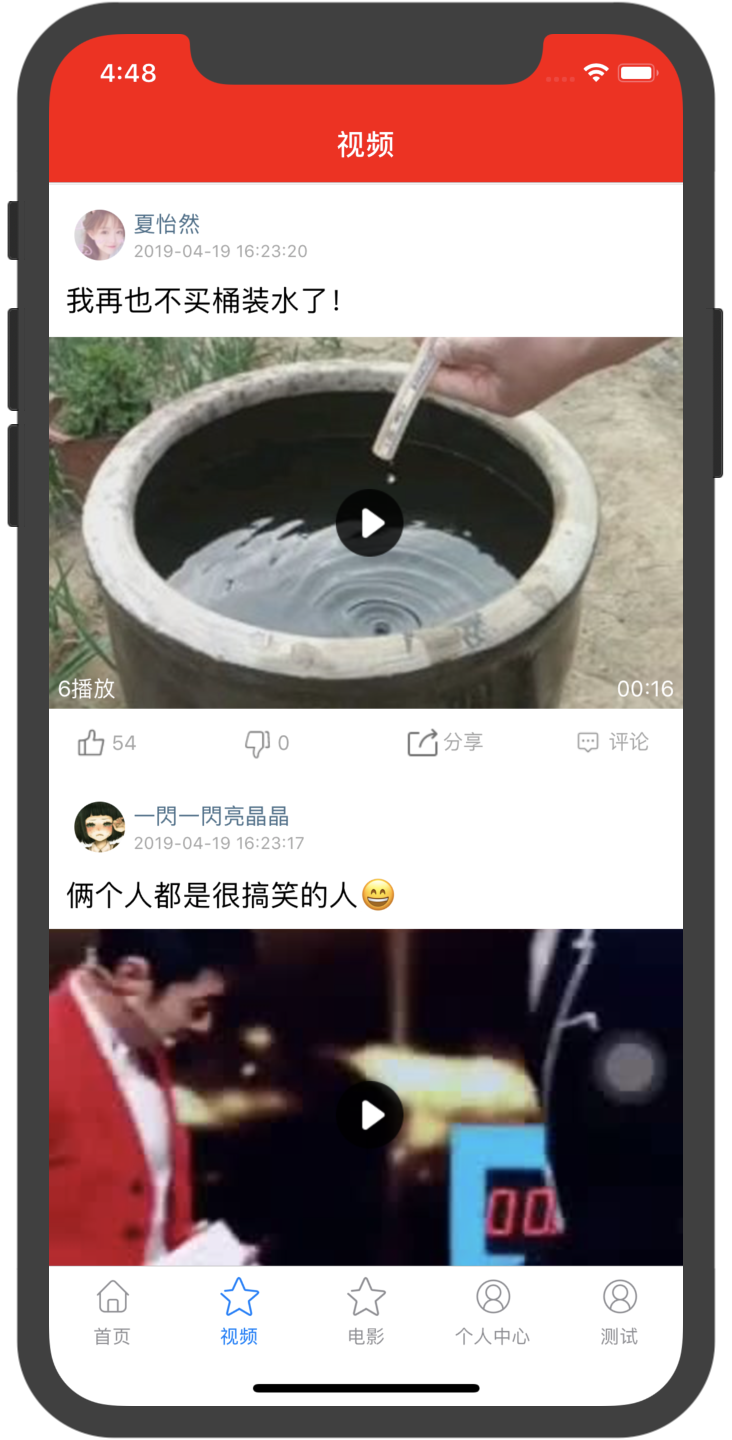
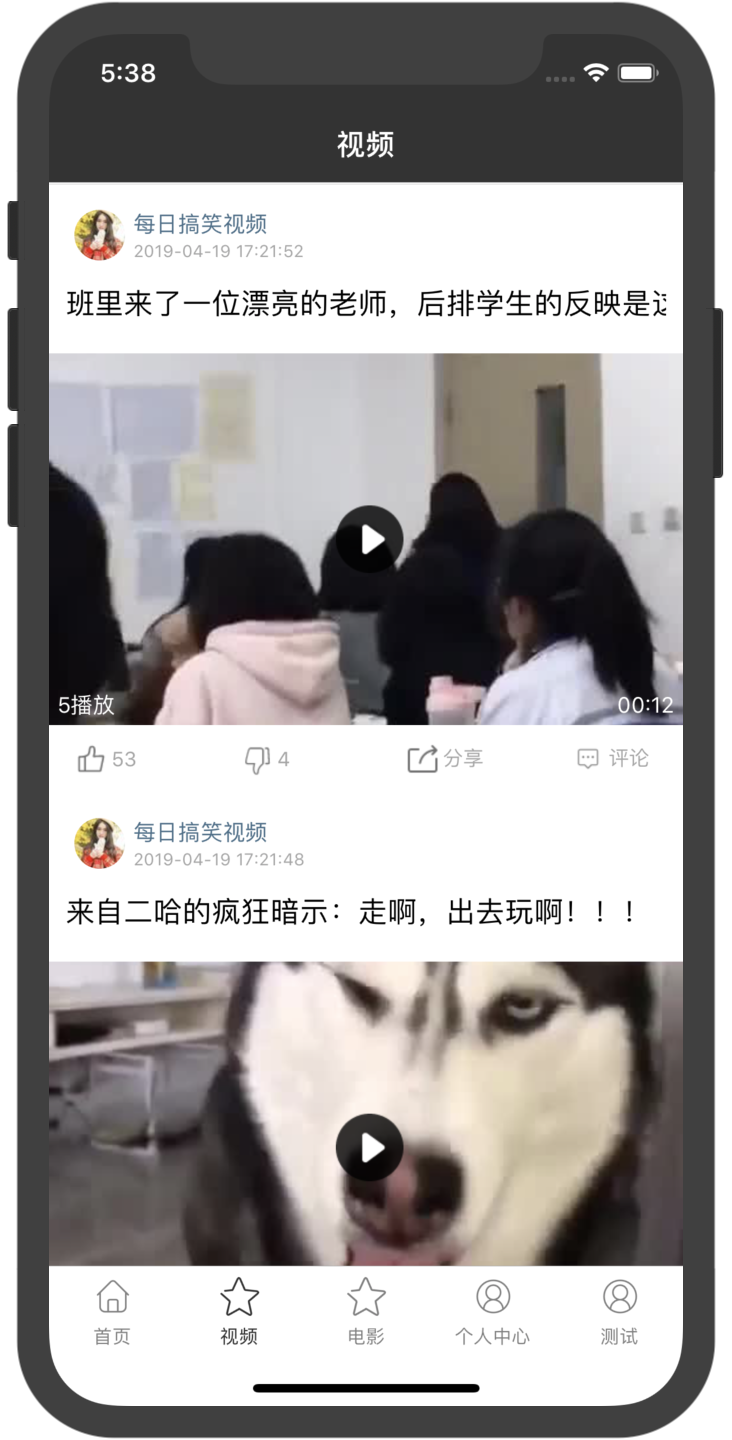
ThemeColor
ThemeColor

diff --git a/app/components/IndexRoute.js b/app/components/IndexRoute.js
@@ -23,7 +23,7 @@ export default routeIndex = {
             title:'首页详情',
             headerTintColor:'white',
             headerStyle: {
-                backgroundColor: 'red',
+                backgroundColor: '#333333',
             },
             headerRight:
                 <TouchableOpacity onPress={()=>{_clickHomeDetail()}}>
@@ -40,7 +40,7 @@ export default routeIndex = {
             title:'视频详情',
             headerTintColor:'white',
             headerStyle: {
-                backgroundColor: 'red',
+                backgroundColor: '#333333',
             },
         })
     },
@@ -51,7 +51,7 @@ export default routeIndex = {
             title:'电影详情',
             headerTintColor:'white',
             headerStyle: {
-                backgroundColor: 'red',
+                backgroundColor: '#333333',
             },
         })
     },
@@ -61,7 +61,7 @@ export default routeIndex = {
             title:'测试详情',
             headerTintColor:'white',
             headerStyle: {
-                backgroundColor: 'red',
+                backgroundColor: '#333333',
             },
 
         })
@@ -72,7 +72,7 @@ export default routeIndex = {
             title:'扫描二维码',
             headerTintColor:'white',
             headerStyle: {
-                backgroundColor: 'red',
+                backgroundColor: '#333333',
             },
 
         })

diff --git a/app/TestControl/TestPage.js b/app/TestControl/TestPage.js
@@ -273,7 +273,7 @@ export default class TestPage extends Component {
           {
               <ScrollView style={{flex:1}}>
                    <StatusBar
-                     backgroundColor="blue"
+                     backgroundColor="#333333"
                      barStyle="light-content"
                    />
                    <View style={{height: 40,margin:10,marginBottom:0,flexDirection:'row',alignItems:'center'}}>
@@ -294,7 +294,7 @@ export default class TestPage extends Component {
                          contents.map((item,index)=>{
                            return(
                              <TouchableWithoutFeedback key={index} onPress={actions[index]}>
-                                 <View style={{marginTop:10,width:355,height:45,backgroundColor:'#436EEE',borderRadius:5,alignItems:'center',justifyContent:'center'}}>
+                                 <View style={{marginTop:10,width:355,height:45,backgroundColor:'grey',borderRadius:5,alignItems:'center',justifyContent:'center'}}>
                                      <Text style={{height: 20,textAlign:'center',fontSize:17,color:'white'}}>{item}</Text>
                                  </View>
                              </TouchableWithoutFeedback>

diff --git a/app/components/stackNavigator.js b/app/components/stackNavigator.js
@@ -100,21 +100,21 @@ const TabNavigatorConfigs = {
     swipeEnabled: false,
     backBehavior: "none",
     tabBarOptions:{
-      // activeTintColor:'#080808',
-      // inactiveTintColor:'white',
-      // activeBackgroundColor:'yellow',
-      // inactiveBackgroundColor:'blue',
+      activeTintColor:'#333333',
+      inactiveTintColor:'grey',
+      // activeBackgroundColor:'#333333',
+      // inactiveBackgroundColor:'#333333',
       showIcon:true,
-      style: {
-          // backgroundColor: '#EEE9E9',
-          // paddingBottom: 0,
-          // borderTopWidth: 0.5,
-          // borderTopColor: '#ccc',
-        },
+      // style: {
+      //     backgroundColor: '#EEE9E9',
+      //     paddingBottom: 0,
+      //     borderTopWidth: 0.5,
+      //     borderTopColor: '#ccc',
+      //   },
     },
 };
 const titles = ['首页','视频','电影','我的','测试'];
-const colors = ['#1C86EE','red','#3A5FCD','green','#1874CD']
+const colors = ['#333333','#333333','#333333','#333333','#333333']
 const APP = createBottomTabNavigator(TabRouteConfigs,TabNavigatorConfigs);
 const Navigator = createStackNavigator(
     {

diff --git a/app/favorite/VideoDetail.js b/app/favorite/VideoDetail.js
@@ -89,7 +89,7 @@ export default class VideoDetailPage extends Component {
                         <Text style={{flex:1,color:'black',fontSize:15,marginTop:20,flexShrink: 1}} numberOflines={1}>{tail}</Text>
                         <Text style={{flex:1,color:'#A6A6A6',fontSize:12,marginTop:5,marginBottom:15,flexShrink: 1}} numberOflines={2} >{info}</Text>
                     </View>
-                    <View style={{marginLeft:5,width:55,height:22,backgroundColor:'red',borderRadius:12,alignItems:'center'}}>
+                    <View style={{marginLeft:5,width:55,height:22,backgroundColor:'#333333',borderRadius:12,alignItems:'center'}}>
                         <Text style={{color:'white',fontSize:13,textAlign:'center',marginTop:2,}}>进入></Text>
                     </View>
                 </View>

diff --git a/app/components/AnimatedView.js b/app/components/AnimatedView.js
@@ -44,7 +44,7 @@ export default class AnimatedView extends Component {
     return (
       <TouchableWithoutFeedback onPress={this._startAnimation}>
       <Animated.View style={[{transform: this.state.bigDogeTrans.getTranslateTransform()}]}>
-           <View style={{width:300,height:45,backgroundColor:'blue',alignItems:'center',justifyContent:'center',borderRadius:5,borderColor:'black',borderWidth:1}}>
+           <View style={{width:300,height:45,backgroundColor:'#333333',alignItems:'center',justifyContent:'center',borderRadius:5,borderColor:'black',borderWidth:1}}>
               <Text style={{flex:1,color:'white',textAlign:'center',fontSize:25,marginTop:8}}>确定</Text>
            </View>
        </Animated.View >

diff --git a/app/favorite/JokePage.js b/app/favorite/JokePage.js
@@ -200,7 +200,7 @@ requestData(){
                                     <RefreshControl
                                       refreshing={this.state.isRefreshing}
                                       onRefresh={this.onRefresh.bind(this)}  //(()=>this.onRefresh)或者通过bind来绑定this引用来调用方法
-                                      tintColor='red'
+                                      tintColor='#333333'
                                       title= {this.state.isRefreshing? '刷新中....':'下拉刷新'}
                                     />
                                     }

diff --git a/app/favorite/WebPage.js b/app/favorite/WebPage.js
@@ -285,7 +285,7 @@ export default class WebPage extends Component {
                            <RefreshControl
                              refreshing={this.state.isRefreshing}
                              onRefresh={this.onRefresh.bind(this)}  //(()=>this.onRefresh)或者通过bind来绑定this引用来调用方法
-                             tintColor='red'
+                             tintColor='#333333'
                              title= {this.state.isRefreshing? '刷新中....':'下拉刷新'}
                            />
                            }

diff --git a/app/favorite/MoviePage.js b/app/favorite/MoviePage.js
@@ -131,7 +131,7 @@ constructor(props){
                               <RefreshControl
                                 refreshing={this.state.isRefreshing}
                                 onRefresh={this.onRefresh.bind(this)}  //(()=>this.onRefresh)或者通过bind来绑定this引用来调用方法
-                                tintColor='red'
+                                tintColor='#333333'
                                 title= {this.state.isRefreshing? '刷新中....':'下拉刷新'}
                               />
                               }

diff --git a/app/styles/Styles.js b/app/styles/Styles.js
@@ -14,7 +14,7 @@ const styles = StyleSheet.create({
       backgroundColor:'white',
   },
   color:{
-    backgroundColor:'red',
+    backgroundColor:'#333333',
   },
   noData:{
       height:actionTypes.SCREEN_HEIGHT-(actionTypes.SCREEN_HEIGHT>=812?(83+88):49+64),

diff --git a/README.md b/README.md
@@ -41,19 +41,19 @@
 
 ## App界面；
 <h2 align"center">
-<img src="/images/1.png" width="210" height="457"/>
-<img src="/images/2.png" width="210" height="457"/>
-<img src="/images/3.png" width="210" height="457"/>
-<img src="/images/4.png" width="210" height="457"/>
+<img src="/images/1.png" width="210" height="413"/>
+<img src="/images/2.png" width="210" height="413"/>
+<img src="/images/3.png" width="210" height="413"/>
+<img src="/images/4.png" width="210" height="413"/>
 
-<img src="/images/5.png" width="210" height="457"/>
-<img src="/images/6.png" width="210" height="457"/>
-<img src="/images/7.png" width="210" height="457"/>
-<img src="/images/8.png" width="210" height="457"/>
+<img src="/images/5.png" width="210" height="413"/>
+<img src="/images/6.png" width="210" height="413"/>
+<img src="/images/7.png" width="210" height="413"/>
+<img src="/images/8.png" width="210" height="413"/>
 
-<img src="/images/9.png" width="210" height="457"/>
-<img src="/images/10.png" width="210" height="457"/>
-<!--<img src="/images/11.png" width="210" height="457"/>-->
+<img src="/images/9.png" width="210" height="413"/>
+<img src="/images/10.png" width="210" height="413"/>
+<!--<img src="/images/11.png" width="210" height="413"/>-->
 
 </h2>
 
